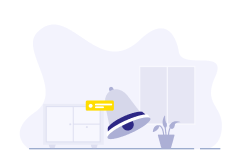
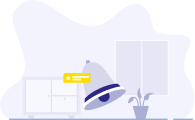
feat: add empty state on calendar page

Changed region(s): [[0.0308, 0.5, 1.0, 1.0], [0.7385, 0.325, 0.8615, 0.4], [0.1231, 0.65, 0.1846, 0.75]]

diff --git a/lib/src/modules/calendar/ui/pages/calendar_page.dart b/lib/src/modules/calendar/ui/pages/calendar_page.dart
@@ -3,6 +3,7 @@ import 'package:flutter_animate/flutter_animate.dart';
 import 'package:flutter_bloc/flutter_bloc.dart';
 import 'package:syncfusion_flutter_datepicker/datepicker.dart';
 
+import '../../../../core/constants/image_source_constants.dart';
 import '../../../../core/extensions/date_time_extension.dart';
 import '../../../../core/extensions/string_extension.dart';
 import '../../../../core/helpers/date_helper.dart';
@@ -10,6 +11,7 @@ import '../../../../core/ui/design_system/design_system.dart';
 import '../../../../core/ui/design_system/widgets/skeletons/skeleton_container.dart';
 import '../../../../core/ui/widgets/default_app_bar.dart';
 import '../../../../core/ui/widgets/month_picker.dart';
+import '../../../../core/ui/widgets/states/states.dart';
 import '../../../../core/utils/debouncer.dart';
 import '../../domain/entities/calendar_activity_entity.dart';
 import '../../domain/entities/calendar_day_off_entity.dart';
@@ -207,114 +209,133 @@ class _CalendarPageState extends State<CalendarPage> {
                             thickness: 1.5,
                             color: MonoChromaticColors.gray.v200,
                           ),
-                          const SizedBox(height: 16),
+                          const SizedBox(height: 24),
                           switch (state) {
                             SuccessState _ => Padding(
                                 padding:
                                     const EdgeInsets.symmetric(horizontal: 16),
-                                child: ListView.separated(
-                                  shrinkWrap: true,
-                                  itemCount: state.data.length,
-                                  physics: const NeverScrollableScrollPhysics(),
-                                  separatorBuilder: (context, index) =>
-                                      const SizedBox(height: 24),
-                                  itemBuilder: (context, index) {
-                                    final date =
-                                        state.data.keys.elementAt(index);
-                                    final isToday = date.isToday();
+                                child: state.data.isEmpty
+                                    ? const EmptyStateDisplay(
+                                        size: EmptyStateDisplaySize.small,
+                                        imageSource: ImageSourceConstants
+                                            .calendarIllustration,
+                                        description:
+                                            'Não encontramos registros nesta data.',
+                                      )
+                                    : ListView.separated(
+                                        shrinkWrap: true,
+                                        itemCount: state.data.length,
+                                        physics:
+                                            const NeverScrollableScrollPhysics(),
+                                        separatorBuilder: (context, index) =>
+                                            const SizedBox(height: 24),
+                                        itemBuilder: (context, index) {
+                                          final date =
+                                              state.data.keys.elementAt(index);
+                                          final isToday = date.isToday();
 
-                                    return Column(
-                                      mainAxisSize: MainAxisSize.min,
-                                      children: [
-                                        Row(
-                                          crossAxisAlignment:
-                                              CrossAxisAlignment.center,
-                                          children: [
-                                            Text(
-                                              isToday
-                                                  ? 'Hoje'
-                                                  : DateHelper.format(
+                                          return Column(
+                                            mainAxisSize: MainAxisSize.min,
+                                            children: [
+                                              Row(
+                                                crossAxisAlignment:
+                                                    CrossAxisAlignment.center,
+                                                children: [
+                                                  Text(
+                                                    isToday
+                                                        ? 'Hoje'
+                                                        : DateHelper.format(
+                                                            date,
+                                                            pattern: 'EEEE',
+                                                          ).capitalize(),
+                                                    style: Text2Typography(
+                                                      fontWeight:
+                                                          FontWeight.bold,
+                                                      color: MonoChromaticColors
+                                                          .gray.v900,
+                                                    ),
+                                                  ),
+                                                  Padding(
+                                                    padding: const EdgeInsets
+                                                        .symmetric(
+                                                      horizontal: 8,
+                                                    ),
+                                                    child: Badge(
+                                                      backgroundColor:
+                                                          MonoChromaticColors
+                                                              .gray,
+                                                      smallSize: 4,
+                                                    ),
+                                                  ),
+                                                  Text(
+                                                    DateHelper.format(
                                                       date,
-                                                      pattern: 'EEEE',
-                                                    ).capitalize(),
-                                              style: Text2Typography(
-                                                fontWeight: FontWeight.bold,
-                                                color: MonoChromaticColors
-                                                    .gray.v900,
+                                                      pattern: "dd 'de' MMMM",
+                                                    ),
+                                                    style: Text2Typography(
+                                                      fontWeight:
+                                                          FontWeight.w500,
+                                                      color: MonoChromaticColors
+                                                          .gray,
+                                                    ),
+                                                  ),
+                                                ],
                                               ),
-                                            ),
-                                            Padding(
-                                              padding:
-                                                  const EdgeInsets.symmetric(
-                                                horizontal: 8,
-                                              ),
-                                              child: Badge(
-                                                backgroundColor:
-                                                    MonoChromaticColors.gray,
-                                                smallSize: 4,
-                                              ),
-                                            ),
-                                            Text(
-                                              DateHelper.format(
-                                                date,
-                                                pattern: "dd 'de' MMMM",
-                                              ),
-                                              style: Text2Typography(
-                                                fontWeight: FontWeight.w500,
-                                                color: MonoChromaticColors.gray,
-                                              ),
-                                            ),
-                                          ],
-                                        ),
-                                        const SizedBox(height: 16),
-                                        Container(
-                                          decoration: BoxDecoration(
-                                            color:
-                                                MonoChromaticColors.gray.v100,
-                                            borderRadius:
-                                                BorderRadius.circular(8),
-                                          ),
-                                          child: ListView.separated(
-                                            itemCount: state.data[date]!.length,
-                                            shrinkWrap: true,
-                                            physics:
-                                                const NeverScrollableScrollPhysics(),
-                                            separatorBuilder: (context, index) {
-                                              return Container(
-                                                height: 1.5,
-                                                width: double.infinity,
-                                                color: MonoChromaticColors
-                                                    .gray.v200,
-                                              );
-                                            },
-                                            padding: EdgeInsets.zero,
-                                            itemBuilder: (context, index) {
-                                              final item =
-                                                  state.data[date]![index];
+                                              const SizedBox(height: 16),
+                                              Container(
+                                                decoration: BoxDecoration(
+                                                  color: MonoChromaticColors
+                                                      .gray.v100,
+                                                  borderRadius:
+                                                      BorderRadius.circular(8),
+                                                ),
+                                                child: ListView.separated(
+                                                  itemCount:
+                                                      state.data[date]!.length,
+                                                  shrinkWrap: true,
+                                                  physics:
+                                                      const NeverScrollableScrollPhysics(),
+                                                  separatorBuilder:
+                                                      (context, index) {
+                                                    return Container(
+                                                      height: 1.5,
+                                                      width: double.infinity,
+                                                      color: MonoChromaticColors
+                                                          .gray.v200,
+                                                    );
+                                                  },
+                                                  padding: EdgeInsets.zero,
+                                                  itemBuilder:
+                                                      (context, index) {
+                                                    final item = state
+                                                        .data[date]![index];
 
-                                              return Padding(
-                                                padding:
-                                                    const EdgeInsets.all(16),
-                                                child: switch (item) {
-                                                  CalendarDayOffEntity dayOff =>
-                                                    CalendarDayOffCard(
-                                                      dayOff: dayOff,
-                                                    ),
-                                                  CalendarActivityEntity
-                                                    activity =>
-                                                    CalendarActivityCard(
-                                                      activity: activity,
-                                                    ),
-                                                  _ => const SizedBox.shrink(),
-                                                },
-                                              );
-                                            },
-                                          ),
-                                        ),
-                                      ],
-                                    );
-                                  },
-                                ),
+                                                    return Padding(
+                                                      padding:
+                                                          const EdgeInsets.all(
+                                                              16),
+                                                      child: switch (item) {
+                                                        CalendarDayOffEntity
+                                                          dayOff =>
+                                                          CalendarDayOffCard(
+                                                            dayOff: dayOff,
+                                                          ),
+                                                        CalendarActivityEntity
+                                                          activity =>
+                                                          CalendarActivityCard(
+                                                            activity: activity,
+                                                          ),
+                                                        _ => const SizedBox
+                                                            .shrink(),
+                                                      },
+                                                    );
+                                                  },
+                                                ),
+                                              ),
+                                            ],
+                                          );
+                                        },
+                                      ),
                               ),
                             LoadingState _ => Animate(
                                 effects: const [

diff --git a/lib/src/core/constants/image_source_constants.dart b/lib/src/core/constants/image_source_constants.dart
@@ -1,7 +1,11 @@
 abstract class ImageSourceConstants {
-  static String get onboarding1 => 'assets/images/onboarding1.png';
-  static String get onboarding2 => 'assets/images/onboarding2.png';
-  static String get onboarding3 => 'assets/images/onboarding3.png';
-  static String get notificationsIllustration => 'assets/images/notifications_illustration.png';
-  static String get question => 'assets/images/question.png';
+  static const String onboarding1 = 'assets/images/onboarding1.png';
+  static const String onboarding2 = 'assets/images/onboarding2.png';
+  static const String onboarding3 = 'assets/images/onboarding3.png';
+  static const String question = 'assets/images/question.png';
+
+  static const String notificationsIllustration =
+      'assets/images/notifications_illustration.png';
+  static const String calendarIllustration =
+      'assets/images/calendar_illustration.png';
 }
